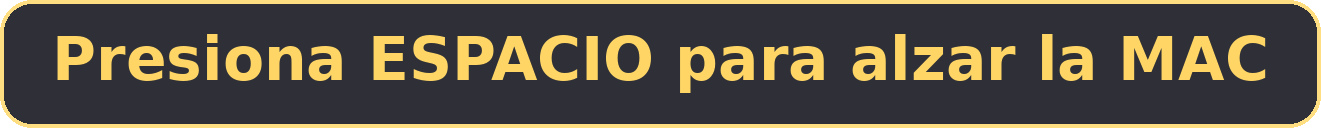
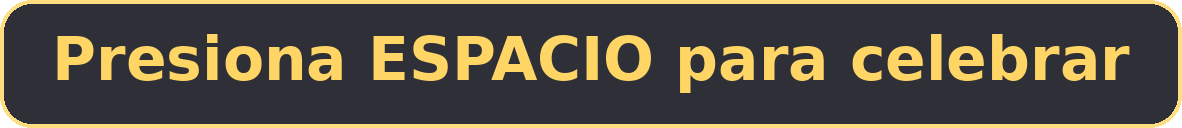
feat: panel de controles (F4) y aviso 'celebrar' en la escena final

diff --git a/proyecto_teoria/main.cpp b/proyecto_teoria/main.cpp
@@ -26,6 +26,7 @@
 void KeyCallback(GLFWwindow *window, int key, int scancode, int action, int mode);
 static SkinnedModel* skVictoria = nullptr;   // escena 8: CUAU con la animacion "Victory" de Mixamo (huesos)
 static float tVictoria = 0.0f, VICTORIA_ESC = 1.0f;
+static bool mostrarAyuda = false;   // F4: panel con los controles (se abre solo al entrar al modo libre con F2)
 static bool linterna = false, noche = false;   // T3: L = linterna (spot que sigue a la camara), T = dia/noche (direccional), H = luces del casco de CUAU
 static float tCaida = -1.0f;
 // Animaciones nuevas por input (banco de pruebas): click izquierdo = salto de CUAU, click derecho = giro de los SENTINEL, tecla 9 = la MAC levita y gira
@@ -988,7 +989,7 @@ int main(int argc, char** argv)
 					std::string k = par.substr(c + 1);
 					int key = (k == "SPACE") ? GLFW_KEY_SPACE : (k == "ENTER") ? GLFW_KEY_ENTER : (k == "LEFT") ? GLFW_KEY_LEFT :
 					          (k == "RIGHT") ? GLFW_KEY_RIGHT : (k == "PGDN") ? GLFW_KEY_PAGE_DOWN : (k == "PGUP") ? GLFW_KEY_PAGE_UP :
-					          (k == "TAB") ? GLFW_KEY_TAB : (k == "F3") ? GLFW_KEY_F3 : (k.size() == 1) ? (int)k[0] : GLFW_KEY_RIGHT;
+					          (k == "TAB") ? GLFW_KEY_TAB : (k == "F3") ? GLFW_KEY_F3 : (k == "F4") ? GLFW_KEY_F4 : (k == "F2") ? GLFW_KEY_F2 : (k.size() == 1) ? (int)k[0] : GLFW_KEY_RIGHT;
 					teclasAuto.push_back({ (float)atof(par.substr(0, c).c_str()), key, false });
 				}
 				p = e + 1;
@@ -1232,6 +1233,13 @@ int main(int argc, char** argv)
 		sky.Draw(skyShader, cubemap, view, projection);   // al final: solo rellena lo que no tapo la escena
 
 		if (modoRelato && !sinHud) DibujarHUDRelato(hudShader);
+		if (mostrarAyuda && !sinHud)
+		{
+			glDisable(GL_DEPTH_TEST); glEnable(GL_BLEND); glBlendFunc(GL_SRC_ALPHA, GL_ONE_MINUS_SRC_ALPHA);
+			TexHUD& th = HUDTex("ayuda");
+			DibujarHUD(hudShader, "ayuda", (float)HEIGHT - th.h * 0.5f - 16.0f);   // arriba, centrado
+			glDisable(GL_BLEND); glEnable(GL_DEPTH_TEST);
+		}
 
 		// captura de pantalla para pruebas (--foto archivo.png tiempo): se toma antes de intercambiar buffers y se cierra
 		if (fotoT >= 0.0f && tReloj >= fotoT)
@@ -1313,7 +1321,8 @@ void KeyCallback(GLFWwindow *window, int key, int scancode, int action, int mode
 			if (camLibre) camera.SetLookAt(camPos, camMira);
 			std::printf("Camara libre: %s\n", camLibre ? "SI" : "NO");
 		}
-		if (key == GLFW_KEY_F2) { modoRelato = !modoRelato; std::printf("Modo: %s\n", modoRelato ? "RELATO" : "BANCO DE PRUEBAS"); }
+		if (key == GLFW_KEY_F4) mostrarAyuda = !mostrarAyuda;
+		if (key == GLFW_KEY_F2) { modoRelato = !modoRelato; mostrarAyuda = !modoRelato; std::printf("Modo: %s\n", modoRelato ? "RELATO" : "BANCO DE PRUEBAS"); }
 		// escena anterior / siguiente: AvPag y RePag (iguales en cualquier teclado) o las teclas a la derecha de la P ([ y ] en teclado ingles)
 		if (key == GLFW_KEY_PAGE_UP   || key == GLFW_KEY_LEFT_BRACKET)  IrAEscena(escena - 1);
 		if (key == GLFW_KEY_PAGE_DOWN || key == GLFW_KEY_RIGHT_BRACKET) IrAEscena(escena + 1);

diff --git a/proyecto_teoria/UI/generar_textos.py b/proyecto_teoria/UI/generar_textos.py
@@ -54,7 +54,7 @@ PROMPTS = {
     "p5":        "Presiona ESPACIO para golpear con la MAC",
     "p6":        "Presiona ESPACIO para dar el golpe",
     "p7":        "Presiona ESPACIO para el golpe final",
-    "p8":        "Presiona ESPACIO para alzar la MAC",
+    "p8":        "Presiona ESPACIO para celebrar",
     "p_fin":     "FIN   ·   ENTER para cerrar   ·   ESC para salir",
 }
 
@@ -89,6 +89,17 @@ def prompt(texto, tam=30, color=(255, 214, 102)):
     d.text((pad - bb[0], (h - (bb[3] - bb[1])) // 2 - bb[1]), texto, font=f, fill=color)
     return img
 
+# Panel de ayuda con los controles (F4 lo muestra / oculta; se abre solo al entrar al modo libre con F2)
+AYUDA = [
+    "CONTROLES   (F4 oculta / muestra este panel)",
+    "MODO LIBRE (F2) · 8 animaciones por input:",
+    "2 Barrido de los SENTINEL  ·  3 Zigzag de CUAU  ·  4 Caminata por partes  ·  5 Obreros (ESPACIO golpea)",
+    "8 Cae un SENTINEL  ·  9 La MAC levita  ·  Click izq: CUAU salta  ·  Click der: los SENTINEL giran",
+    "Otras: 1 Sierras  ·  6 y 7 Huesos (Mixamo)  ·  M Recorrido de cámara (Blender)",
+    "LUCES: L linterna  ·  H casco de CUAU  ·  T día / noche  ·  E Fresnel y reflejos",
+    "RELATO: ENTER / ESPACIO / ← →  ·  F1 cámara libre (WASD + mouse)  ·  F2 modo libre",
+]
+
 if __name__ == "__main__":
     for nombre, lineas in PAGINAS.items():
         grande = nombre in ("t9a",)
@@ -96,4 +107,5 @@ if __name__ == "__main__":
     for nombre, texto in PROMPTS.items():
         color = (255, 120, 110) if nombre == "p4_mal" else (255, 214, 102)
         prompt(texto, color=color).save(os.path.join(AQUI, nombre + ".png"))
+    panel(AYUDA, 22, 1000).save(os.path.join(AQUI, "ayuda.png"))
     print("PNG generados en", AQUI, ":", len(PAGINAS) + len(PROMPTS))
